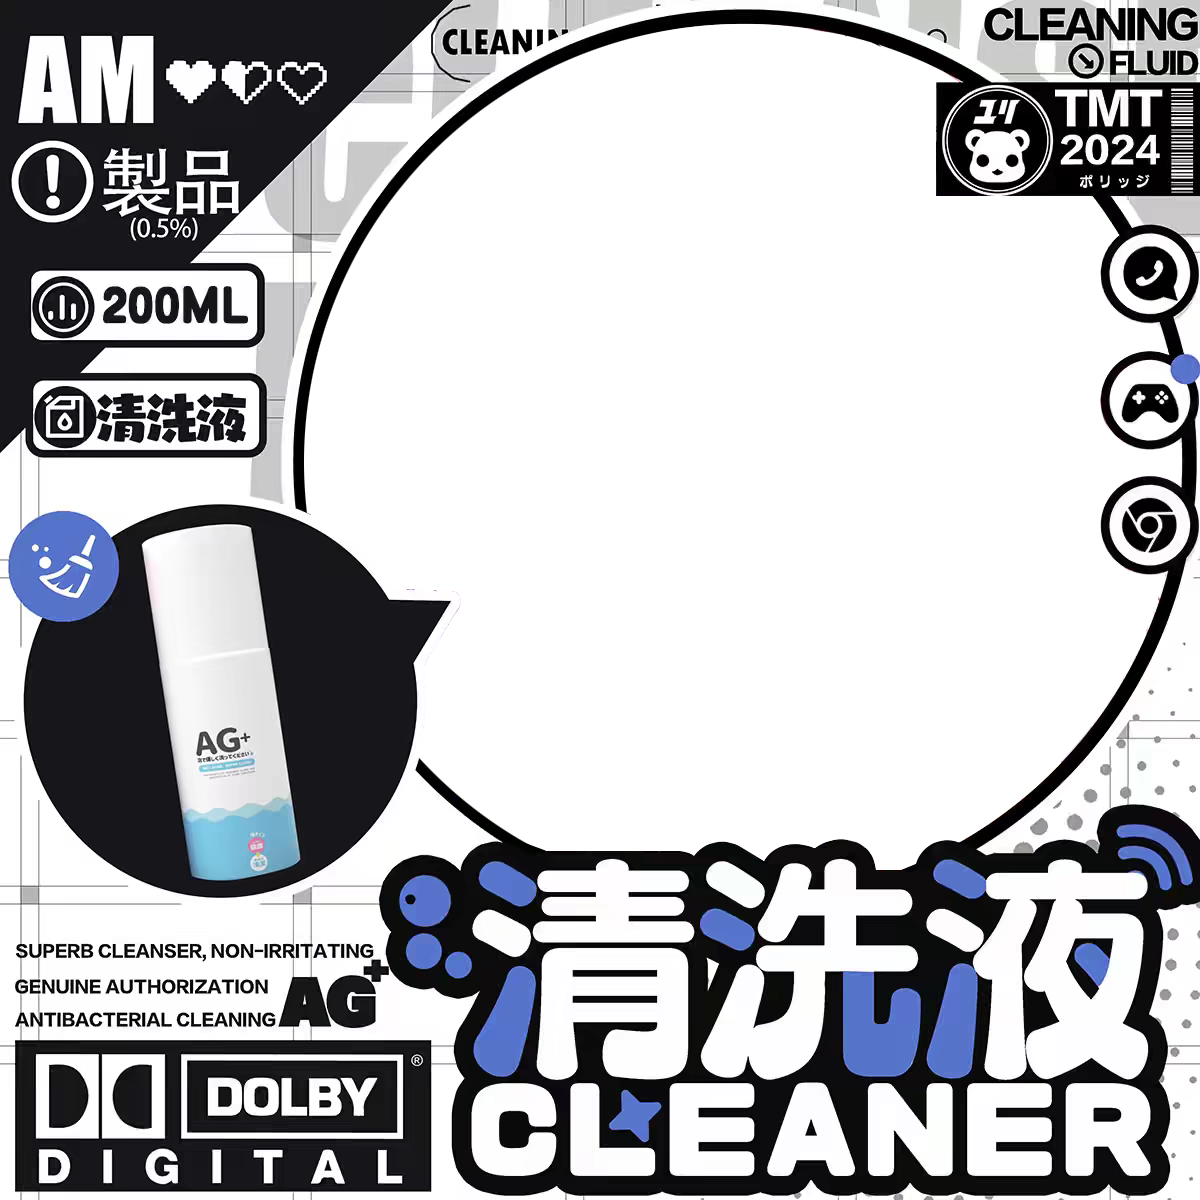
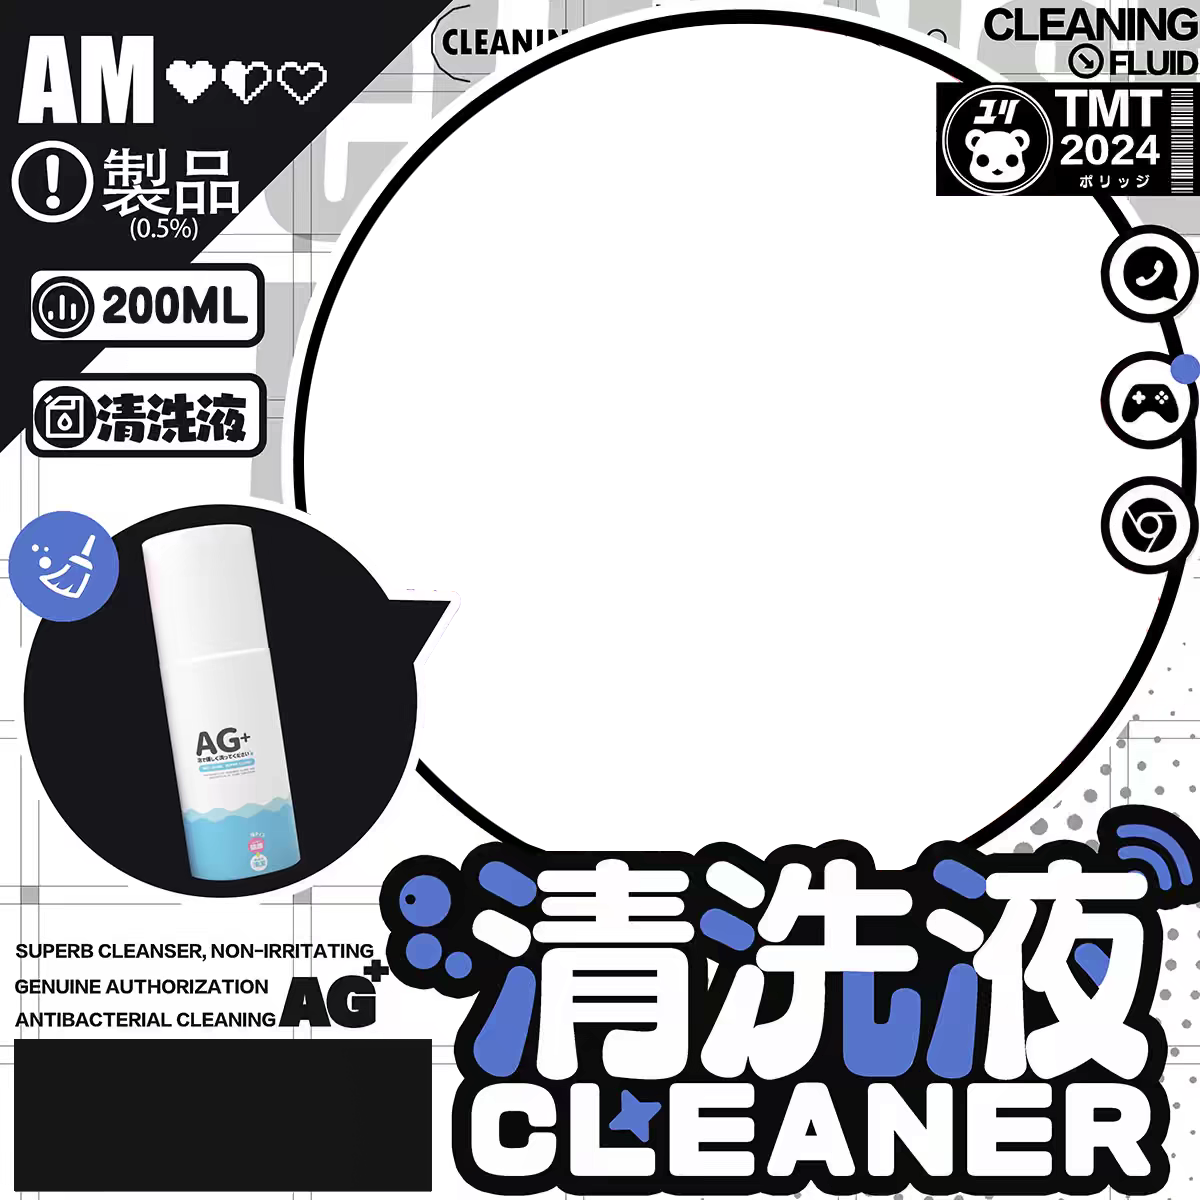
🐞🐛 fleshlight_cleaning_liquid  清洗液 优化素材图片 添加文本框文字 🐞🐛 fleshlight_hoshino_alice 啦啦队偶像 优化素材图片 添加文本框文字 🐞🐛 fleshlight_pure_buttocks 纯洁臀 优化素材图片 更新引用头像坐标 🐞🐛 fleshlight_random 随机杯子 同步已优化素材的文件和代码坐标

Changed region(s): [[0.0308, 0.8633, 0.37, 0.9867]]

diff --git a/emoji/fleshlight_random/__init__.py b/emoji/fleshlight_random/__init__.py
@@ -31,9 +31,9 @@ def fleshlight_random(images: list[BuildImage], texts: list[str], args: MemeArgs
     text_positions = [
         (313, 40, 623, 104),    # 图片0.png的文本位置
         (533, 39, 779, 140),    # 图片1.png的文本位置
-        (0, 1037, 339, 1106),   # 图片2.png的文本位置
+        (13, 1039, 430, 1189),   # 图片2.png的文本位置
         (40, 110, 374, 207),    # 图片3.png的文本位置
-        (0, 1037, 339, 1106),   # 图片4.png的文本位置
+        (13, 1039, 430, 1189),   # 图片4.png的文本位置
         (55, 135, 812, 282),    # 图片5.png的文本位置
         (261, 31, 758, 91),     # 图片6.png的文本位置
         (566, 606, 764, 644),   # 图片7.png的文本位置
@@ -44,7 +44,7 @@ def fleshlight_random(images: list[BuildImage], texts: list[str], args: MemeArgs
         (13, 1039, 428, 1191),  # 图片12.png的文本位置
         (331, 40, 797, 136),    # 图片13.png的文本位置
         (465, 5, 792, 87),      # 图片14.png的文本位置
-        (835, 394, 1119, 464),  # 图片15.png的文本位置
+        (840, 393, 1200, 464),  # 图片15.png的文本位置
         (799, 59, 1168, 211),   # 图片16.png的文本位置
         (52, 692, 334, 755),    # 图片17.png的文本位置
         (40, 110, 374, 207),    # 图片18.png的文本位置
@@ -119,7 +119,7 @@ def fleshlight_random(images: list[BuildImage], texts: list[str], args: MemeArgs
         {"position": (275, -10), "size": (950, 950)},   # 图片12.png的头像配置
         {"position": (320, 144), "size": (512, 512)},   # 图片13.png的头像配置
         {"position": (544, 326), "size": (230, 230)},   # 图片14.png的头像配置
-        {"position": (-160, -50), "size": (920, 920)},  # 图片15.png的头像配置
+        {"position": (-64, 81), "size": (860, 860)},  # 图片15.png的头像配置
         {"position": (107, 180), "size": (1000, 1000)}, # 图片16.png的头像配置
         {"position": (105, 75), "size": (630, 630)},    # 图片17.png的头像配置
         {"position": (202, 252), "size": (770, 770)},   # 图片18.png的头像配置

diff --git a/emoji/fleshlight_pure_buttocks/__init__.py b/emoji/fleshlight_pure_buttocks/__init__.py
@@ -26,21 +26,20 @@ def fleshlight_pure_buttocks(images: list[BuildImage], texts: list[str], args: M
     #{name}挚爱❤👩❤💋👨{name}愛のカップ。
     try:
         frame.draw_text(
-            (835, 394, 1119, 464),
+            (840, 393, 1200, 464),
             text,
             fill=(255, 255, 255),
-            max_fontsize=100,
-            min_fontsize=20,
-            lines_align="center",
+            max_fontsize=60,
+            min_fontsize=15,
+            lines_align="left",
             font_families=["FZShaoEr-M11S"],
         )
     except ValueError:
         raise TextOverLength(name)
 
     def make(imgs: list[BuildImage]) -> BuildImage:
-        img = imgs[0].convert("RGBA").circle().resize((920, 920))
-        img = img.rotate(-15, expand=True)
-        return frame.copy().paste(img, (-160, -50), alpha=True, below=True)
+        img = imgs[0].convert("RGBA").circle().resize((860, 860))
+        return frame.copy().paste(img, (-64, 81), alpha=True, below=True)
 
     return make_jpg_or_gif(images, make)
 
@@ -54,5 +53,5 @@ add_meme(
     max_texts=1,
     keywords=["纯洁臀"],
     date_created=datetime(2025, 3, 13),
-    date_modified=datetime(2025, 3, 13),
+    date_modified=datetime(2025, 9, 5),
 )

diff --git a/emoji/fleshlight_hoshino_alice/__init__.py b/emoji/fleshlight_hoshino_alice/__init__.py
@@ -22,15 +22,16 @@ def fleshlight_hoshino_alice(images: list[BuildImage], texts: list[str], args: M
         ta = "他" if info.gender == "male" else "她"
         name = info.name or ta
 
-    text = f""
-    #{name}挚爱❤👩❤💋👨{name}愛のカップ。
+    text = f"{name}の❤最爱"
     try:
         frame.draw_text(
-            (0, 1037, 339, 1106),
+            (683, 1115, 1200, 1200),
             text,
+            fill=(255, 255, 255),
             max_fontsize=100,
             min_fontsize=20,
-            valign="bottom",
+            lines_align="left",
+            font_families=["FZKaTong-M19S"],
         )
     except ValueError:
         raise TextOverLength(name)
@@ -51,5 +52,5 @@ add_meme(
     max_texts=0,
     keywords=["啦啦队偶像","拉拉队偶像"],
     date_created=datetime(2025, 3, 13),
-    date_modified=datetime(2025, 6, 13),
+    date_modified=datetime(2025, 9, 5),
 )

diff --git a/emoji/fleshlight_cleaning_liquid/__init__.py b/emoji/fleshlight_cleaning_liquid/__init__.py
@@ -22,15 +22,16 @@ def fleshlight_cleaning_liquid(images: list[BuildImage], texts: list[str], args:
         ta = "他" if info.gender == "male" else "她"
         name = info.name or ta
 
-    text = f""
-    #{name}挚爱❤👩❤💋👨{name}愛のカップ。
+    text = f"{name}の❤最爱"
     try:
         frame.draw_text(
-            (0, 1037, 339, 1106),
+            (13, 1039, 430, 1189),
             text,
+            fill=(255, 255, 255),
             max_fontsize=100,
             min_fontsize=20,
-            valign="bottom",
+            lines_align="center",
+            font_families=["FZKaTong-M19S"],
         )
     except ValueError:
         raise TextOverLength(name)
@@ -51,5 +52,5 @@ add_meme(
     max_texts=1,
     keywords=["清洗液"],
     date_created=datetime(2025, 3, 13),
-    date_modified=datetime(2025, 3, 13),
+    date_modified=datetime(2025, 9, 5),
 )
